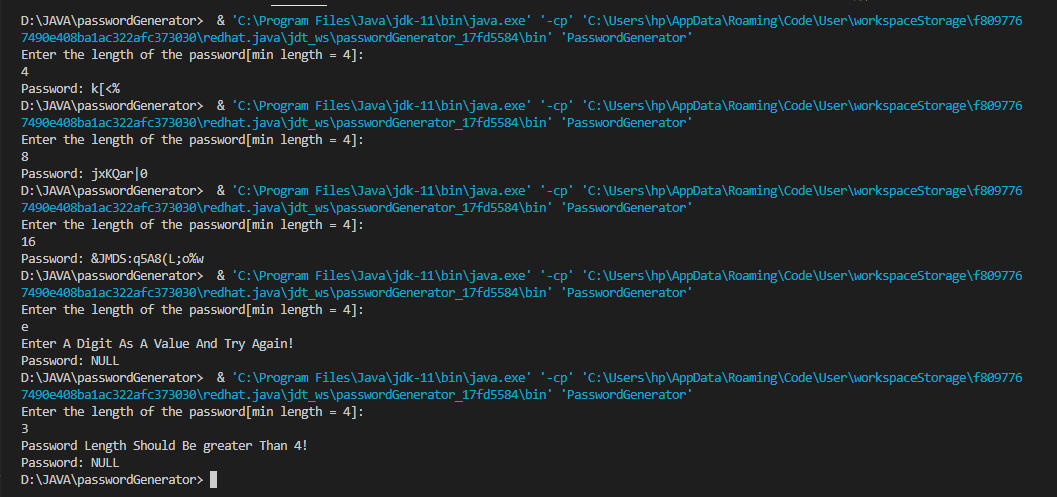
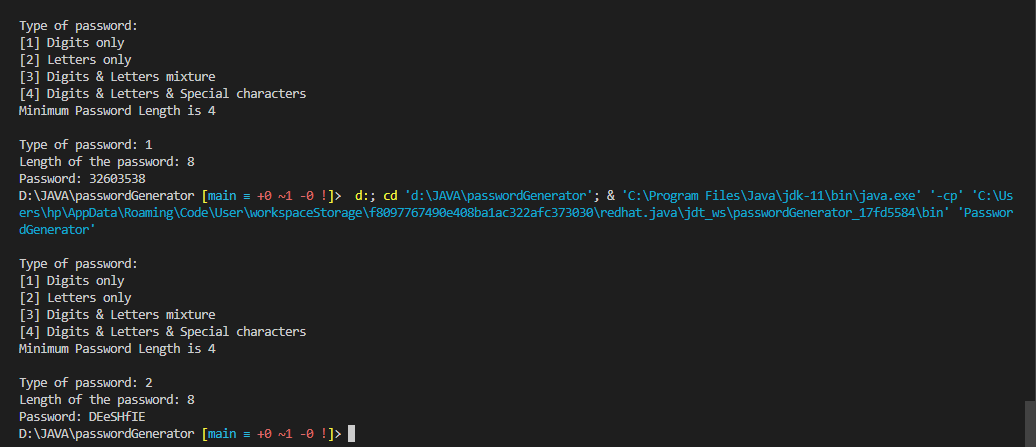
made the source code more precise according to user entry

Changed region(s): [[0.0, 0.0, 0.9884, 0.9888], [0.9884, 0.8725, 1.0, 1.0]]

diff --git a/PasswordGenerator.java b/PasswordGenerator.java
@@ -2,31 +2,84 @@ import java.util.Scanner;
 
 public class PasswordGenerator {
     //generate password
-    public static String passwordGen(int size) {
+    public static String passwordGen(int type, int size) {
         String password = "";
-        int num ,max = 126, min = 33;
+        int num, count = 0;;
         char letter;
 
-        int count = 0;
-        while(count < size) {
-            num = (int)Math.floor(Math.random() * (max-min+1) + min);
-            letter = (char)num;
-            password += String.valueOf(letter);
-            count += 1;
+
+        if(type == 1) {
+            while(count < size) {
+                //num = (int)Math.floor(Math.random() * (max-min+1) + min);
+                num = (int)Math.floor(Math.random() * (57-48+1) + 48);
+                letter = (char)num;
+                password += String.valueOf(letter);
+                count += 1;
+            }
+        } else if (type == 2) {
+            while(count < size) {
+                int k = (int)Math.floor(Math.random() * (2-1+1) + 1);
+                if(k == 1) {
+                    num = (int)Math.floor(Math.random() * (90-65+1) + 65);
+                } else {
+                    num = (int)Math.floor(Math.random() * (122-97+1) + 97);
+                }
+                letter = (char)num;
+                password += String.valueOf(letter);
+                count += 1;
+            }
+
+        } else if (type == 3) {
+            while(count < size) {
+                int k = (int)Math.floor(Math.random() * (3-1+1) + 1);
+                if(k == 1) {
+                    num = (int)Math.floor(Math.random() * (90-65+1) + 65);
+                } else if(k == 2){
+                    num = (int)Math.floor(Math.random() * (122-97+1) + 97);
+                } else {
+                    num = (int)Math.floor(Math.random() * (57-48+1) + 48);
+                }
+                letter = (char)num;
+                password += String.valueOf(letter);
+                count += 1;
+            }
+            
+        } else if (type == 4) {
+            while(count < size) {
+                int k = (int)Math.floor(Math.random() * (4-1+1) + 1);
+                if(k == 1) {
+                    num = (int)Math.floor(Math.random() * (90-65+1) + 65);
+                } else if(k == 2){
+                    num = (int)Math.floor(Math.random() * (122-97+1) + 97);
+                }  else if(k == 3){
+                    num = (int)Math.floor(Math.random() * (47-33+1) + 33);
+                }  else {
+                    num = (int)Math.floor(Math.random() * (57-48+1) + 48);
+                }
+                letter = (char)num;
+                password += String.valueOf(letter);
+                count += 1;
+            }
+            
+        } else {
+            System.out.println("Password Type Either 1, 2, 3 or 4!");
         }
 
         return password;
     }
     public static void main(String[] args) {
-        int size = 0;
+        int size, type;
         String pwd = "NULL";
         try (Scanner get = new Scanner(System.in)) {
             //catch InputMismatchError when input is not a digit
+            System.out.println("\nType of password: \n[1] Digits only \n[2] Letters only \n[3] Digits & Letters mixture \n[4] Digits & Letters & Special characters \nMinimum Password Length is 4\n");
             try {
-                System.out.println("Enter the length of the password[min length = 4]: ");
+                System.out.print("Type of password: ");
+                type = get.nextInt();
+                System.out.print("Length of the password: ");
                 size = get.nextInt();
                 if(size >= 4) {
-                    pwd = passwordGen(size);
+                    pwd = passwordGen(type,size);
                 } else {
                     System.out.println("Password Length Should Be greater Than 4!");
                 }
